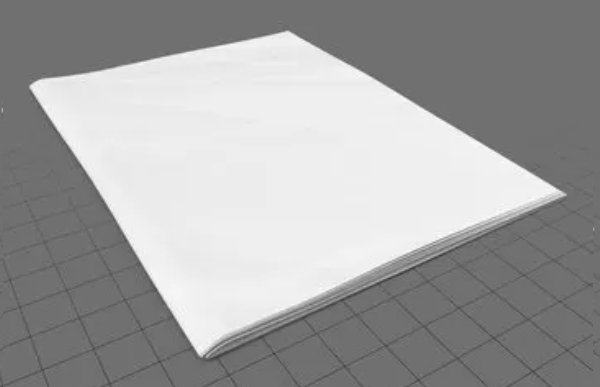
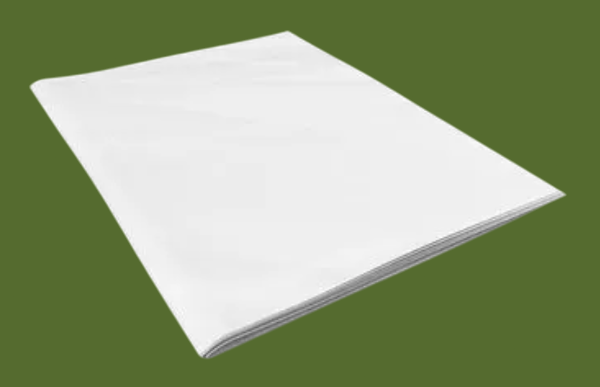
changed background of the images, a little bit structure and added initial styling

diff --git a/style.css b/style.css
@@ -1,0 +1,57 @@
+*{
+    margin: 0;
+    padding: 0;
+    text-align: center;
+}
+h1{
+    background-color: darkmagenta;
+    height: 5rem;
+    line-height: 5rem;
+    margin-bottom: 30px;
+}
+.choice{
+    height: 165px;
+    width: 165px;
+    border-radius: 50%;
+    display: flex;
+    justify-content: center;
+    align-items: center;
+}
+.choice:hover{
+    cursor: pointer;
+    background-color: black;
+}
+img{
+    height: 150px;
+    width: 150px;
+    object-fit: fill;
+    border-radius: 50%;
+}
+.choices{
+    display: flex;
+    justify-content: center;
+    align-items: center;
+    gap: 3rem;
+}
+.score-board{
+    margin-top: 2rem;
+    display: flex;
+    justify-content: center;
+    align-items: center;
+    gap: 10rem;
+    font-size: 2rem;
+    margin-bottom: 5rem;
+}
+#human-score,#comp-score{
+    font-size: 4rem;
+}
+.msg-container{
+    margin-top: 5rem;
+}
+#msg{
+    font-size: 2rem;
+    background-color: darkmagenta;
+    display: inline;
+    padding: 1rem;
+    border-radius: 1rem;
+}

diff --git a/structure.html b/structure.html
@@ -4,6 +4,7 @@
     <meta charset="UTF-8">
     <meta name="viewport" content="width=device-width, initial-scale=1.0">
     <title>RockPaperScissors</title>
+    <link rel="stylesheet" href="style.css">
 </head>
 
 <body>
@@ -26,7 +27,7 @@
         </div>
         <div class="score">
             <p id="comp-score">0</p>
-            <p>Computar</p>
+            <p>Computer</p>
         </div>
     </div>
     <div class="msgContainer">
